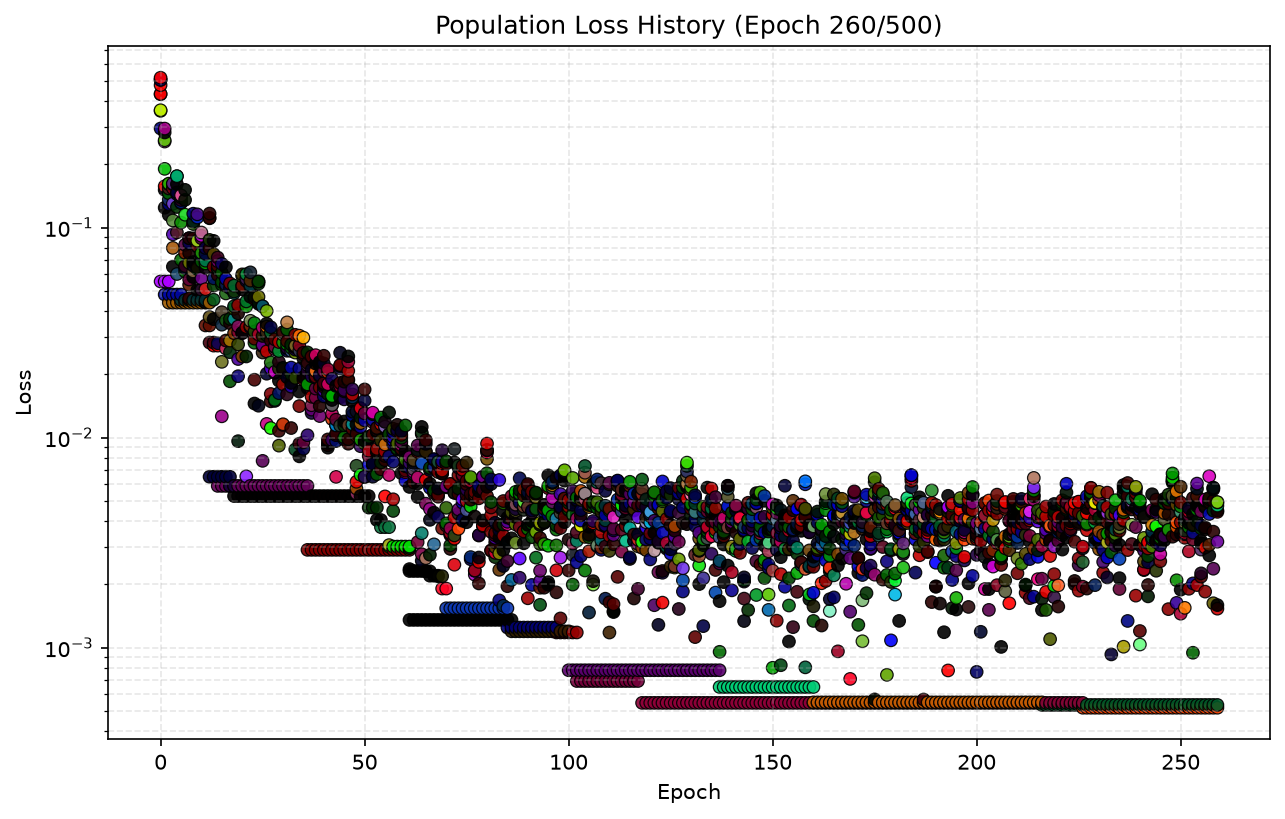
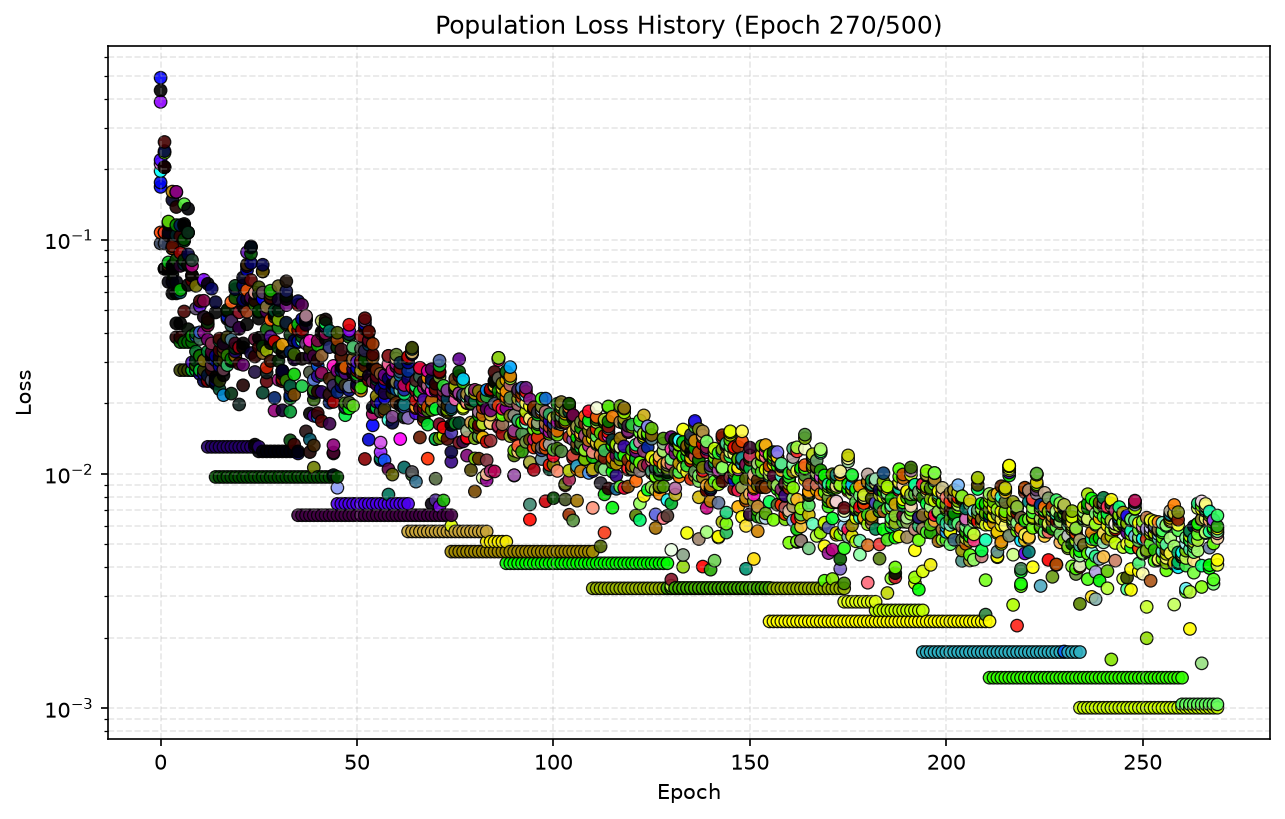
corrected subtraction operation

diff --git a/src/model.py b/src/model.py
@@ -102,7 +102,7 @@ class SDF(ix.sdf.SDFProtocol):
         sdf = self.nodes[0].sign*self.nodes[0](p_flat)
         for i in range(1, len(self.nodes)):
             node = self.nodes[i]
-            sdf = node.sign*sdUnion(sdf, node.sign*node(p_flat), node.smoothing)
+            sdf = node.sign*sdUnion(node.sign*sdf, node(p_flat), node.smoothing)
             
         return sdf.reshape(p.shape[:-1])
     
@@ -360,18 +360,17 @@ class Population:
                 samples = transformed[local_idx] # (H, V, 3)
                 node_sdfs[local_idx] = func(samples, *params) # (H, V)
             
-            signed_sdfs = self.signs[unique_to_nodes]*(node_sdfs - self.inflates[unique_to_nodes].abs())
+            inflated_sdfs = node_sdfs - self.inflates[unique_to_nodes].abs()
             
             # step over all indiv nodes at once
-            # force first node to be additive
-            indiv_sdfs = self.signs[bnodes[boffsets]] * signed_sdfs[bnodes_to_unique[boffsets]] # (B, V)
+            indiv_sdfs = inflated_sdfs[bnodes_to_unique[boffsets]] # (B, V)
             for i in range(1, max_bcount):
                 valid_idx = (i < bcounts).nonzero(as_tuple=True)[0] # B -> R
                 node_idx = bnodes[boffsets[valid_idx] + i] # R -> N
                 s = self.signs[node_idx]
                 k = self.smoothings[node_idx]
-                sdf = signed_sdfs[bnodes_to_unique[boffsets[valid_idx] + i]] # (R, V)
-                indiv_sdfs[valid_idx] = s*sdUnion(indiv_sdfs[valid_idx], sdf, k)
+                sdf = inflated_sdfs[bnodes_to_unique[boffsets[valid_idx] + i]] # (R, V)
+                indiv_sdfs[valid_idx] = s*sdUnion(s*indiv_sdfs[valid_idx], sdf, k)
 
             # take losses
             losses[indiv_idx] = torch.sum(torch.square(indiv_sdfs), dim=1)*(1 + 0.1*self.node_counts[indiv_idx])
